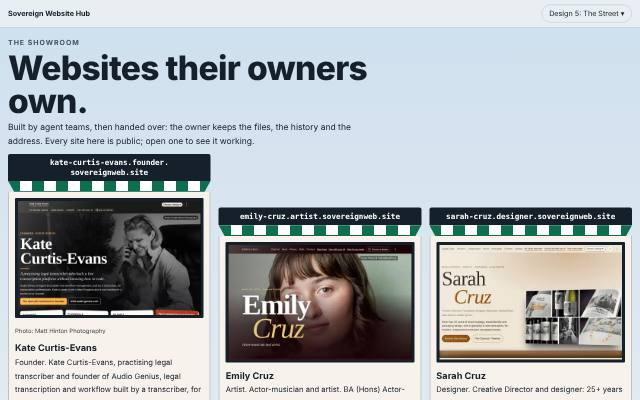
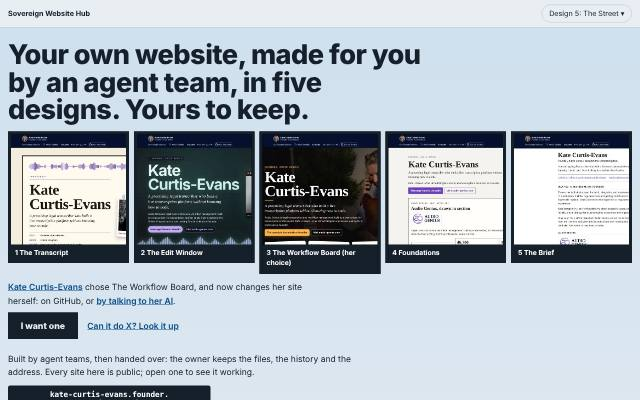
The Street opens with the case, and ends with an empty plot: Yours
design.b's round 9 item 3, so round 10 can compare The Street and The
Line on the same opening. The Street's first screen is now the case: the
sentence, Kate's five designs as framed windows with their names, the note
that she changes her site herself on GitHub or by talking to her AI, "I
want one" and "Can it do X?". Her shopfront and the street follow. At the
end of the street, an empty plot signed "Yours" leads to "I want one".

Agent: hub.b@SovereignWebsite.dinis
Claude-Session: https://claude.ai/code/session_01Kw9UwB7XboTsnbPPWaMr2d

diff --git a/site/street/index.html b/site/street/index.html
@@ -122,6 +122,24 @@ main>.get{margin:2.4rem 1rem 0}
 .sky .lede{margin:.3rem 0 0;max-width:44rem}
 @media(max-width:40rem){.sky .lede{font-size:.95rem}}
 .want-btn,.get .want-btn{background:var(--fg);border-color:var(--fg);color:var(--bg)}
+/* The case on the street's first screen */
+.case{padding:.4rem 0 .6rem}
+.case h1{font-size:clamp(1.8rem,5vw,3.4rem);line-height:1.02;letter-spacing:-.02em;font-weight:800;max-width:22ch;margin:0 0 1rem}
+.kate5{list-style:none;margin:0;padding:0;display:grid;gap:.6rem;grid-template-columns:repeat(5,minmax(0,1fr))}
+.kate5 a{display:block;text-decoration:none;color:var(--fg);border:6px solid var(--fg);background:#000}
+.kate5 img{height:220px;object-fit:cover;object-position:left top}
+.kate5 span{display:block;padding:.3rem .5rem;font-weight:700;font-size:.85rem;background:var(--sign);color:var(--sign-ink)}
+.kate5 a:hover span,.kate5 a:focus-visible span{text-decoration:underline}
+@media(max-width:40rem){.kate5{display:flex;overflow-x:auto;scroll-snap-type:x mandatory;padding-bottom:.4rem}.kate5 li{flex:0 0 70%;scroll-snap-align:start}.kate5 img{height:200px}}
+.case-note{margin:.8rem 0 0;max-width:44rem}.case-note a,.can{color:var(--accent);font-weight:600}
+.case-act{display:flex;flex-wrap:wrap;align-items:center;gap:.6rem 1.2rem;margin:.6rem 0 0}.case-act .want-btn{margin-top:0}
+.sky .lede{margin-top:1rem}
+/* The next plot: yours */
+.plot{display:block;max-width:26rem;text-decoration:none;color:var(--fg);margin-top:1.2rem}
+.plot .sign{background:var(--hi,#ffd60a);color:#111}
+.plot .front{border-style:dashed;min-height:12rem;align-content:space-between}
+.empty-lot{display:block;font-style:italic;color:var(--fg)}
+.plot:hover .door,.plot:focus-visible .door{background:var(--fg);color:var(--bg)}
 
 .family{--fam-fg:var(--family-fg,#454545);--fam-strong:var(--family-fg-strong,#111);font-size:.875rem;border-bottom:1px solid rgba(127,127,127,.25);background:rgba(127,127,127,.06)}
 @media (prefers-color-scheme:dark){.family{--fam-fg:var(--family-fg,#cfcfcf);--fam-strong:var(--family-fg-strong,#fff)}}
@@ -175,11 +193,16 @@ main>.get{margin:2.4rem 1rem 0}
 <header class="bar"><a class="brand" href="/">Sovereign Website Hub</a>
 <details class="chooser"><summary><span class="dw">Design </span><span class="cur">5</span><span class="dw">:</span> The Street</summary><nav class="opts" aria-label="Designs of this page"><a href="/"><img src="/shots/hub-design-1.jpg" alt="" width="640" height="400" loading="lazy"><span>1. The Line (home)</span></a><a href="/register/"><img src="/shots/hub-design-2.jpg" alt="" width="640" height="400" loading="lazy"><span>2. The Register</span></a><a href="/gallery/"><img src="/shots/hub-design-3.jpg" alt="" width="640" height="400" loading="lazy"><span>3. The Gallery</span></a><a href="/contact-sheet/"><img src="/shots/hub-design-4.jpg" alt="" width="640" height="400" loading="lazy"><span>4. Contact Sheet</span></a><a href="/street/" aria-current="page"><img src="/shots/hub-design-5.jpg" alt="" width="640" height="400" loading="lazy"><span>5. The Street</span></a><a href="/designs/"><span>All five, side by side</span></a></nav></details></header>
 <main id="main">
-<section class="sky" aria-labelledby="st-h"><div><p class="k">The showroom</p><h1 id="st-h">Websites their owners own.</h1>
+<div class="sky"><div><section class="case" aria-labelledby="case-h">
+<h1 id="case-h">Your own website, made for you by an agent team, in five designs. Yours to keep.</h1>
+<ul class="kate5" aria-label="Kate Curtis-Evans's site in its five designs"><li><a href="https://kate-curtis-evans.founder.sovereignweb.site/designs/1.html"><picture><source type="image/webp" srcset="/shots/kate-curtis-evans-design-1.webp"><img src="/shots/kate-curtis-evans-design-1.jpg" width="640" height="400" alt="Design 1 of Kate Curtis-Evans's site, The Transcript"></picture><span>1 The Transcript</span></a></li><li><a href="https://kate-curtis-evans.founder.sovereignweb.site/designs/2.html"><picture><source type="image/webp" srcset="/shots/kate-curtis-evans-design-2.webp"><img src="/shots/kate-curtis-evans-design-2.jpg" width="640" height="400" alt="Design 2 of Kate Curtis-Evans's site, The Edit Window"></picture><span>2 The Edit Window</span></a></li><li><a href="https://kate-curtis-evans.founder.sovereignweb.site/designs/3.html"><picture><source type="image/webp" srcset="/shots/kate-curtis-evans-design-3.webp"><img src="/shots/kate-curtis-evans-design-3.jpg" width="640" height="400" alt="Design 3 of Kate Curtis-Evans's site, The Workflow Board" loading="lazy"></picture><span>3 The Workflow Board (her choice)</span></a></li><li><a href="https://kate-curtis-evans.founder.sovereignweb.site/designs/4.html"><picture><source type="image/webp" srcset="/shots/kate-curtis-evans-design-4.webp"><img src="/shots/kate-curtis-evans-design-4.jpg" width="640" height="400" alt="Design 4 of Kate Curtis-Evans's site, Foundations" loading="lazy"></picture><span>4 Foundations</span></a></li><li><a href="https://kate-curtis-evans.founder.sovereignweb.site/designs/5.html"><picture><source type="image/webp" srcset="/shots/kate-curtis-evans-design-5.webp"><img src="/shots/kate-curtis-evans-design-5.jpg" width="640" height="400" alt="Design 5 of Kate Curtis-Evans's site, The Brief" loading="lazy"></picture><span>5 The Brief</span></a></li></ul>
+<p class="case-note"><a href="https://kate-curtis-evans.founder.sovereignweb.site/">Kate Curtis-Evans</a> chose The Workflow Board, and now changes her site herself: on GitHub, or <a href="https://kate-curtis-evans.founder.sovereignweb.site/agents/">by talking to her AI</a>.</p>
+<p class="case-act"><a class="want-btn" href="/start/#get-one">I want one</a> <a class="can" href="/features/">Can it do X? Look it up</a></p>
+</section>
 <p class="lede">Built by agent teams, then handed over: the owner keeps the files, the history and the address. Every site here is public; open one to see it working.</p>
 <div class="lead-row"><a class="shop lead" href="https://kate-curtis-evans.founder.sovereignweb.site/"><span class="sign"><span class="nw">kate-curtis-evans.</span><wbr><span class="nw">founder.</span><wbr><span class="nw">sovereignweb.site</span></span><span class="awning" aria-hidden="true"></span><span class="front"><span class="window"><picture><source media="(max-width:40rem)" type="image/webp" srcset="/shots/kate-curtis-evans-portrait.webp"><source media="(max-width:40rem)" srcset="/shots/kate-curtis-evans-portrait.jpg"><source type="image/webp" srcset="/shots/kate-curtis-evans-480.webp 480w, /shots/kate-curtis-evans-960.webp 960w" sizes="(min-width:52rem) 26rem, 100vw"><img src="/shots/kate-curtis-evans-640.jpg" srcset="/shots/kate-curtis-evans-640.jpg 640w, /shots/kate-curtis-evans.jpg 1280w" sizes="(min-width:52rem) 26rem, 100vw" width="1280" height="800" alt=""></picture></span><span class="credit">Photo: Matt Hinton Photography</span><span class="plate"><b>Kate Curtis-Evans</b><span>Founder. Kate Curtis-Evans, practising legal transcriber and founder of Audio Genius, legal transcription and workflow built by a transcriber, for transcription professionals.</span></span><span><span class="board">Handed over</span><span class="board alt">Five designs</span></span><span class="door">Walk in &rarr;</span></span></a><div class="wide-only"><a class="shop" href="https://emily-cruz.artist.sovereignweb.site/"><span class="sign"><span class="nw">emily-cruz.</span><wbr><span class="nw">artist.</span><wbr><span class="nw">sovereignweb.site</span></span><span class="awning" aria-hidden="true"></span><span class="front"><span class="window"><picture><source media="(max-width:40rem)" type="image/webp" srcset="/shots/emily-cruz-phone.webp"><source media="(max-width:40rem)" srcset="/shots/emily-cruz-phone.jpg"><source type="image/webp" srcset="/shots/emily-cruz-480.webp 480w, /shots/emily-cruz-960.webp 960w" sizes="(min-width:52rem) 26rem, 100vw"><img src="/shots/emily-cruz-640.jpg" srcset="/shots/emily-cruz-640.jpg 640w, /shots/emily-cruz.jpg 1280w" sizes="(min-width:52rem) 26rem, 100vw" width="1280" height="800" alt="" loading="lazy" decoding="async"></picture></span><span class="plate"><b>Emily Cruz</b><span>Artist. Actor-musician and artist. BA (Hons) Actor-Musician, Guildford School of Acting, 2026.</span></span><span><span class="board alt">Five designs</span></span><span class="door">Walk in &rarr;</span></span></a></div><div class="wide-only"><a class="shop" href="https://sarah-cruz.designer.sovereignweb.site/"><span class="sign"><span class="nw">sarah-cruz.</span><wbr><span class="nw">designer.</span><wbr><span class="nw">sovereignweb.site</span></span><span class="awning" aria-hidden="true"></span><span class="front"><span class="window"><picture><source media="(max-width:40rem)" type="image/webp" srcset="/shots/sarah-cruz-phone.webp"><source media="(max-width:40rem)" srcset="/shots/sarah-cruz-phone.jpg"><source type="image/webp" srcset="/shots/sarah-cruz-480.webp 480w, /shots/sarah-cruz-960.webp 960w" sizes="(min-width:52rem) 26rem, 100vw"><img src="/shots/sarah-cruz-640.jpg" srcset="/shots/sarah-cruz-640.jpg 640w, /shots/sarah-cruz.jpg 1280w" sizes="(min-width:52rem) 26rem, 100vw" width="1280" height="800" alt="" loading="lazy" decoding="async"></picture></span><span class="plate"><b>Sarah Cruz</b><span>Designer. Creative Director and designer: 25+ years of wine, spirits and retail packaging, five designs.</span></span><span><span class="board alt">Five designs</span></span><span class="door">Walk in &rarr;</span></span></a></div></div>
 <div class="about"><p class="want">Want one? It starts with one request. There is no request form yet: <a href="/start/#get-one">here is how to start</a>.</p>
-<nav aria-label="Streets"><ul class="streets"><li><a href="#st-s-people">People</a></li><li><a href="#st-s-startups">Startups</a></li><li><a href="#st-s-providers">Providers</a></li><li><a href="#st-s-businesses">Businesses</a></li><li><a href="#st-s-promptugal-news">PrompTugal.news</a></li><li><a href="#st-s-demos">Demos</a></li><li><a href="#st-s-tools">Tools</a></li></ul></nav></div></div></section>
+<nav aria-label="Streets"><ul class="streets"><li><a href="#st-s-people">People</a></li><li><a href="#st-s-startups">Startups</a></li><li><a href="#st-s-providers">Providers</a></li><li><a href="#st-s-businesses">Businesses</a></li><li><a href="#st-s-promptugal-news">PrompTugal.news</a></li><li><a href="#st-s-demos">Demos</a></li><li><a href="#st-s-tools">Tools</a></li></ul></nav></div></div></div>
 <section class="road" aria-label="On this street"><p>33 sites working, 11 of them people&#x27;s own; 1 handed over to its owner so far. Plus 1 not switched on yet.</p></section>
 <section class="street" id="st-s-people" aria-labelledby="st-h-s-people"><h2 id="st-h-s-people">People</h2><p class="sub">Personal sites for real people. Kate Curtis-Evans was the first to take hers over and edit it herself.</p>
 <div class="row"><div class=phone-only><a class="shop" href="https://emily-cruz.artist.sovereignweb.site/"><span class="sign"><span class="nw">emily-cruz.</span><wbr><span class="nw">artist.</span><wbr><span class="nw">sovereignweb.site</span></span><span class="awning" aria-hidden="true"></span><span class="front"><span class="window"><picture><source media="(max-width:40rem)" type="image/webp" srcset="/shots/emily-cruz-phone.webp"><source media="(max-width:40rem)" srcset="/shots/emily-cruz-phone.jpg"><source type="image/webp" srcset="/shots/emily-cruz-480.webp 480w, /shots/emily-cruz-960.webp 960w" sizes="(min-width:52rem) 26rem, 100vw"><img src="/shots/emily-cruz-640.jpg" srcset="/shots/emily-cruz-640.jpg 640w, /shots/emily-cruz.jpg 1280w" sizes="(min-width:52rem) 26rem, 100vw" width="1280" height="800" alt="" loading="lazy" decoding="async"></picture></span><span class="plate"><b>Emily Cruz</b><span>Artist. Actor-musician and artist. BA (Hons) Actor-Musician, Guildford School of Acting, 2026.</span></span><span><span class="board alt">Five designs</span></span><span class="door">Walk in &rarr;</span></span></a></div><div class=phone-only><a class="shop" href="https://sarah-cruz.designer.sovereignweb.site/"><span class="sign"><span class="nw">sarah-cruz.</span><wbr><span class="nw">designer.</span><wbr><span class="nw">sovereignweb.site</span></span><span class="awning" aria-hidden="true"></span><span class="front"><span class="window"><picture><source media="(max-width:40rem)" type="image/webp" srcset="/shots/sarah-cruz-phone.webp"><source media="(max-width:40rem)" srcset="/shots/sarah-cruz-phone.jpg"><source type="image/webp" srcset="/shots/sarah-cruz-480.webp 480w, /shots/sarah-cruz-960.webp 960w" sizes="(min-width:52rem) 26rem, 100vw"><img src="/shots/sarah-cruz-640.jpg" srcset="/shots/sarah-cruz-640.jpg 640w, /shots/sarah-cruz.jpg 1280w" sizes="(min-width:52rem) 26rem, 100vw" width="1280" height="800" alt="" loading="lazy" decoding="async"></picture></span><span class="plate"><b>Sarah Cruz</b><span>Designer. Creative Director and designer: 25+ years of wine, spirits and retail packaging, five designs.</span></span><span><span class="board alt">Five designs</span></span><span class="door">Walk in &rarr;</span></span></a></div><div class=wide-only><a class="shop" href="https://grace-farrell.artist.sovereignweb.site/"><span class="sign"><span class="nw">grace-farrell.</span><wbr><span class="nw">artist.</span><wbr><span class="nw">sovereignweb.site</span></span><span class="awning" aria-hidden="true"></span><span class="front"><span class="window"><picture><source media="(max-width:40rem)" type="image/webp" srcset="/shots/grace-farrell-phone.webp"><source media="(max-width:40rem)" srcset="/shots/grace-farrell-phone.jpg"><source type="image/webp" srcset="/shots/grace-farrell-480.webp 480w, /shots/grace-farrell-960.webp 960w" sizes="(min-width:52rem) 26rem, 100vw"><img src="/shots/grace-farrell-640.jpg" srcset="/shots/grace-farrell-640.jpg 640w, /shots/grace-farrell.jpg 1280w" sizes="(min-width:52rem) 26rem, 100vw" width="1280" height="800" alt="" loading="lazy" decoding="async"></picture></span><span class="plate"><b>Grace Farrell</b><span>Artist. Actor-singer and soprano: National Theatre, Les Misérables, BBC Champion, Diablo IV, and the Pride and Prejudice* (*sort of) tour.</span></span><span><span class="board alt">Five designs</span></span><span class="door">Walk in &rarr;</span></span></a></div><div class=wide-only><a class="shop" href="https://silvio-switha.agenticcells.site/"><span class="sign"><span class="nw">silvio-switha.</span><wbr><span class="nw">agenticcells.site</span></span><span class="awning" aria-hidden="true"></span><span class="front"><span class="window"><picture><source media="(max-width:40rem)" type="image/webp" srcset="/shots/silvio-switha-phone.webp"><source media="(max-width:40rem)" srcset="/shots/silvio-switha-phone.jpg"><source type="image/webp" srcset="/shots/silvio-switha-480.webp 480w, /shots/silvio-switha-960.webp 960w" sizes="(min-width:52rem) 26rem, 100vw"><img src="/shots/silvio-switha-640.jpg" srcset="/shots/silvio-switha-640.jpg 640w, /shots/silvio-switha.jpg 1280w" sizes="(min-width:52rem) 26rem, 100vw" width="1280" height="800" alt="" loading="lazy" decoding="async"></picture></span><span class="plate"><b>Silvio Switha</b><span>Musician. Silvio Switha, AI entrepreneur, musician and producer: a portfolio, made by the site factory.</span></span><span class="door">Walk in &rarr;</span></span></a></div><div class=wide-only><a class="shop" href="https://gabriel-dacruz.agenticcells.site/"><span class="sign"><span class="nw">gabriel-dacruz.</span><wbr><span class="nw">agenticcells.site</span></span><span class="awning" aria-hidden="true"></span><span class="front"><span class="window"><picture><source media="(max-width:40rem)" type="image/webp" srcset="/shots/gabriel-dacruz-phone.webp"><source media="(max-width:40rem)" srcset="/shots/gabriel-dacruz-phone.jpg"><source type="image/webp" srcset="/shots/gabriel-dacruz-480.webp 480w, /shots/gabriel-dacruz-960.webp 960w" sizes="(min-width:52rem) 26rem, 100vw"><img src="/shots/gabriel-dacruz-640.jpg" srcset="/shots/gabriel-dacruz-640.jpg 640w, /shots/gabriel-dacruz.jpg 1280w" sizes="(min-width:52rem) 26rem, 100vw" width="1280" height="800" alt="" loading="lazy" decoding="async"></picture></span><span class="plate"><b>Gabriel DaCruz</b><span>Composer. Personal site of Gabriel DaCruz, composer for concert, film and television, trained in Lisbon and London.</span></span><span><span class="board alt">Six designs</span></span><span class="door">Walk in &rarr;</span></span></a></div></div><div class="phone-only"><details class="more"><summary>Show all 11 in People</summary><div class="row"><a class="shop" href="https://grace-farrell.artist.sovereignweb.site/"><span class="sign"><span class="nw">grace-farrell.</span><wbr><span class="nw">artist.</span><wbr><span class="nw">sovereignweb.site</span></span><span class="awning" aria-hidden="true"></span><span class="front"><span class="window"><picture><source media="(max-width:40rem)" type="image/webp" srcset="/shots/grace-farrell-phone.webp"><source media="(max-width:40rem)" srcset="/shots/grace-farrell-phone.jpg"><source type="image/webp" srcset="/shots/grace-farrell-480.webp 480w, /shots/grace-farrell-960.webp 960w" sizes="(min-width:52rem) 26rem, 100vw"><img src="/shots/grace-farrell-640.jpg" srcset="/shots/grace-farrell-640.jpg 640w, /shots/grace-farrell.jpg 1280w" sizes="(min-width:52rem) 26rem, 100vw" width="1280" height="800" alt="" loading="lazy" decoding="async"></picture></span><span class="plate"><b>Grace Farrell</b><span>Artist. Actor-singer and soprano: National Theatre, Les Misérables, BBC Champion, Diablo IV, and the Pride and Prejudice* (*sort of) tour.</span></span><span><span class="board alt">Five designs</span></span><span class="door">Walk in &rarr;</span></span></a><a class="shop" href="https://silvio-switha.agenticcells.site/"><span class="sign"><span class="nw">silvio-switha.</span><wbr><span class="nw">agenticcells.site</span></span><span class="awning" aria-hidden="true"></span><span class="front"><span class="window"><picture><source media="(max-width:40rem)" type="image/webp" srcset="/shots/silvio-switha-phone.webp"><source media="(max-width:40rem)" srcset="/shots/silvio-switha-phone.jpg"><source type="image/webp" srcset="/shots/silvio-switha-480.webp 480w, /shots/silvio-switha-960.webp 960w" sizes="(min-width:52rem) 26rem, 100vw"><img src="/shots/silvio-switha-640.jpg" srcset="/shots/silvio-switha-640.jpg 640w, /shots/silvio-switha.jpg 1280w" sizes="(min-width:52rem) 26rem, 100vw" width="1280" height="800" alt="" loading="lazy" decoding="async"></picture></span><span class="plate"><b>Silvio Switha</b><span>Musician. Silvio Switha, AI entrepreneur, musician and producer: a portfolio, made by the site factory.</span></span><span class="door">Walk in &rarr;</span></span></a><a class="shop" href="https://gabriel-dacruz.agenticcells.site/"><span class="sign"><span class="nw">gabriel-dacruz.</span><wbr><span class="nw">agenticcells.site</span></span><span class="awning" aria-hidden="true"></span><span class="front"><span class="window"><picture><source media="(max-width:40rem)" type="image/webp" srcset="/shots/gabriel-dacruz-phone.webp"><source media="(max-width:40rem)" srcset="/shots/gabriel-dacruz-phone.jpg"><source type="image/webp" srcset="/shots/gabriel-dacruz-480.webp 480w, /shots/gabriel-dacruz-960.webp 960w" sizes="(min-width:52rem) 26rem, 100vw"><img src="/shots/gabriel-dacruz-640.jpg" srcset="/shots/gabriel-dacruz-640.jpg 640w, /shots/gabriel-dacruz.jpg 1280w" sizes="(min-width:52rem) 26rem, 100vw" width="1280" height="800" alt="" loading="lazy" decoding="async"></picture></span><span class="plate"><b>Gabriel DaCruz</b><span>Composer. Personal site of Gabriel DaCruz, composer for concert, film and television, trained in Lisbon and London.</span></span><span><span class="board alt">Six designs</span></span><span class="door">Walk in &rarr;</span></span></a><a class="shop" href="https://yiheng-wang.agenticcells.site/"><span class="sign"><span class="nw">yiheng-wang.</span><wbr><span class="nw">agenticcells.site</span></span><span class="awning" aria-hidden="true"></span><span class="front"><span class="window"><picture><source media="(max-width:40rem)" type="image/webp" srcset="/shots/yiheng-wang-phone.webp"><source media="(max-width:40rem)" srcset="/shots/yiheng-wang-phone.jpg"><source type="image/webp" srcset="/shots/yiheng-wang-480.webp 480w, /shots/yiheng-wang-960.webp 960w" sizes="(min-width:52rem) 26rem, 100vw"><img src="/shots/yiheng-wang-640.jpg" srcset="/shots/yiheng-wang-640.jpg 640w, /shots/yiheng-wang.jpg 1280w" sizes="(min-width:52rem) 26rem, 100vw" width="1280" height="800" alt="" loading="lazy" decoding="async"></picture></span><span class="plate"><b>Yiheng (Vicky) Wang</b><span>Operations. Yiheng Wang, project and operations manager: a personal site and presentation, made by the site factory.</span></span><span class="door">Walk in &rarr;</span></span></a><a class="shop" href="https://marc-noah.agenticcells.site/"><span class="sign"><span class="nw">marc-noah.</span><wbr><span class="nw">agenticcells.site</span></span><span class="awning" aria-hidden="true"></span><span class="front"><span class="window"><picture><source media="(max-width:40rem)" type="image/webp" srcset="/shots/marc-noah-phone.webp"><source media="(max-width:40rem)" srcset="/shots/marc-noah-phone.jpg"><source type="image/webp" srcset="/shots/marc-noah-480.webp 480w, /shots/marc-noah-960.webp 960w" sizes="(min-width:52rem) 26rem, 100vw"><img src="/shots/marc-noah-640.jpg" srcset="/shots/marc-noah-640.jpg 640w, /shots/marc-noah.jpg 1280w" sizes="(min-width:52rem) 26rem, 100vw" width="1280" height="800" alt="" loading="lazy" decoding="async"></picture></span><span class="plate"><b>Marc Noah</b><span>Songwriter. Marc Noah, Australian-Portuguese singer-songwriter living in the Algarve: the composer and his songs.</span></span><span><span class="board alt">Six designs</span></span><span class="door">Walk in &rarr;</span></span></a><a class="shop" href="https://indi-gupte.agenticcells.site/"><span class="sign"><span class="nw">indi-gupte.</span><wbr><span class="nw">agenticcells.site</span></span><span class="awning" aria-hidden="true"></span><span class="front"><span class="window"><picture><source media="(max-width:40rem)" type="image/webp" srcset="/shots/indi-gupte-phone.webp"><source media="(max-width:40rem)" srcset="/shots/indi-gupte-phone.jpg"><source type="image/webp" srcset="/shots/indi-gupte-480.webp 480w, /shots/indi-gupte-960.webp 960w" sizes="(min-width:52rem) 26rem, 100vw"><img src="/shots/indi-gupte-640.jpg" srcset="/shots/indi-gupte-640.jpg 640w, /shots/indi-gupte.jpg 1280w" sizes="(min-width:52rem) 26rem, 100vw" width="1280" height="800" alt="" loading="lazy" decoding="async"></picture></span><span class="plate"><b>Indi Gupte</b><span>Brand. Indi Gupte: brand, partnerships and research at RiskMandate, a team of AI agents behind him, and looking for work experience.</span></span><span><span class="board alt">Five designs</span></span><span class="door">Walk in &rarr;</span></span></a><a class="shop" href="https://mondweep-chakravorty.agenticcells.site/"><span class="sign"><span class="nw">mondweep-chakravorty.</span><wbr><span class="nw">agenticcells.site</span></span><span class="awning" aria-hidden="true"></span><span class="front"><span class="window"><picture><source media="(max-width:40rem)" type="image/webp" srcset="/shots/mondweep-chakravorty-phone.webp"><source media="(max-width:40rem)" srcset="/shots/mondweep-chakravorty-phone.jpg"><source type="image/webp" srcset="/shots/mondweep-chakravorty-480.webp 480w, /shots/mondweep-chakravorty-960.webp 960w" sizes="(min-width:52rem) 26rem, 100vw"><img src="/shots/mondweep-chakravorty-640.jpg" srcset="/shots/mondweep-chakravorty-640.jpg 640w, /shots/mondweep-chakravorty.jpg 1280w" sizes="(min-width:52rem) 26rem, 100vw" width="1280" height="800" alt="" loading="lazy" decoding="async"></picture></span><span class="plate"><b>Mondweep Chakravorty</b><span>AI leader. Mondweep Chakravorty: enterprise AI leader and agentic systems builder in London, co-founder of Agentics Foundation London, and his work with Dinis Cruz.</span></span><span><span class="board alt">Five designs</span></span><span class="door">Walk in &rarr;</span></span></a><a class="shop" href="https://jose-bota.agenticcells.site/"><span class="sign"><span class="nw">jose-bota.</span><wbr><span class="nw">agenticcells.site</span></span><span class="awning" aria-hidden="true"></span><span class="front"><span class="window"><picture><source media="(max-width:40rem)" type="image/webp" srcset="/shots/jose-bota-phone.webp"><source media="(max-width:40rem)" srcset="/shots/jose-bota-phone.jpg"><source type="image/webp" srcset="/shots/jose-bota-480.webp 480w, /shots/jose-bota-960.webp 960w" sizes="(min-width:52rem) 26rem, 100vw"><img src="/shots/jose-bota-640.jpg" srcset="/shots/jose-bota-640.jpg 640w, /shots/jose-bota.jpg 1280w" sizes="(min-width:52rem) 26rem, 100vw" width="1280" height="800" alt="" loading="lazy" decoding="async"></picture></span><span class="plate"><b>José Bota</b><span>Automation. José Bota, AI automation expert: a portfolio, made by the site factory.</span></span><span class="door">Walk in &rarr;</span></span></a></div></details></div><div class="wide-only"><details class="more"><summary>Show all 11 in People</summary><div class="row"><a class="shop" href="https://yiheng-wang.agenticcells.site/"><span class="sign"><span class="nw">yiheng-wang.</span><wbr><span class="nw">agenticcells.site</span></span><span class="awning" aria-hidden="true"></span><span class="front"><span class="window"><picture><source media="(max-width:40rem)" type="image/webp" srcset="/shots/yiheng-wang-phone.webp"><source media="(max-width:40rem)" srcset="/shots/yiheng-wang-phone.jpg"><source type="image/webp" srcset="/shots/yiheng-wang-480.webp 480w, /shots/yiheng-wang-960.webp 960w" sizes="(min-width:52rem) 26rem, 100vw"><img src="/shots/yiheng-wang-640.jpg" srcset="/shots/yiheng-wang-640.jpg 640w, /shots/yiheng-wang.jpg 1280w" sizes="(min-width:52rem) 26rem, 100vw" width="1280" height="800" alt="" loading="lazy" decoding="async"></picture></span><span class="plate"><b>Yiheng (Vicky) Wang</b><span>Operations. Yiheng Wang, project and operations manager: a personal site and presentation, made by the site factory.</span></span><span class="door">Walk in &rarr;</span></span></a><a class="shop" href="https://marc-noah.agenticcells.site/"><span class="sign"><span class="nw">marc-noah.</span><wbr><span class="nw">agenticcells.site</span></span><span class="awning" aria-hidden="true"></span><span class="front"><span class="window"><picture><source media="(max-width:40rem)" type="image/webp" srcset="/shots/marc-noah-phone.webp"><source media="(max-width:40rem)" srcset="/shots/marc-noah-phone.jpg"><source type="image/webp" srcset="/shots/marc-noah-480.webp 480w, /shots/marc-noah-960.webp 960w" sizes="(min-width:52rem) 26rem, 100vw"><img src="/shots/marc-noah-640.jpg" srcset="/shots/marc-noah-640.jpg 640w, /shots/marc-noah.jpg 1280w" sizes="(min-width:52rem) 26rem, 100vw" width="1280" height="800" alt="" loading="lazy" decoding="async"></picture></span><span class="plate"><b>Marc Noah</b><span>Songwriter. Marc Noah, Australian-Portuguese singer-songwriter living in the Algarve: the composer and his songs.</span></span><span><span class="board alt">Six designs</span></span><span class="door">Walk in &rarr;</span></span></a><a class="shop" href="https://indi-gupte.agenticcells.site/"><span class="sign"><span class="nw">indi-gupte.</span><wbr><span class="nw">agenticcells.site</span></span><span class="awning" aria-hidden="true"></span><span class="front"><span class="window"><picture><source media="(max-width:40rem)" type="image/webp" srcset="/shots/indi-gupte-phone.webp"><source media="(max-width:40rem)" srcset="/shots/indi-gupte-phone.jpg"><source type="image/webp" srcset="/shots/indi-gupte-480.webp 480w, /shots/indi-gupte-960.webp 960w" sizes="(min-width:52rem) 26rem, 100vw"><img src="/shots/indi-gupte-640.jpg" srcset="/shots/indi-gupte-640.jpg 640w, /shots/indi-gupte.jpg 1280w" sizes="(min-width:52rem) 26rem, 100vw" width="1280" height="800" alt="" loading="lazy" decoding="async"></picture></span><span class="plate"><b>Indi Gupte</b><span>Brand. Indi Gupte: brand, partnerships and research at RiskMandate, a team of AI agents behind him, and looking for work experience.</span></span><span><span class="board alt">Five designs</span></span><span class="door">Walk in &rarr;</span></span></a><a class="shop" href="https://mondweep-chakravorty.agenticcells.site/"><span class="sign"><span class="nw">mondweep-chakravorty.</span><wbr><span class="nw">agenticcells.site</span></span><span class="awning" aria-hidden="true"></span><span class="front"><span class="window"><picture><source media="(max-width:40rem)" type="image/webp" srcset="/shots/mondweep-chakravorty-phone.webp"><source media="(max-width:40rem)" srcset="/shots/mondweep-chakravorty-phone.jpg"><source type="image/webp" srcset="/shots/mondweep-chakravorty-480.webp 480w, /shots/mondweep-chakravorty-960.webp 960w" sizes="(min-width:52rem) 26rem, 100vw"><img src="/shots/mondweep-chakravorty-640.jpg" srcset="/shots/mondweep-chakravorty-640.jpg 640w, /shots/mondweep-chakravorty.jpg 1280w" sizes="(min-width:52rem) 26rem, 100vw" width="1280" height="800" alt="" loading="lazy" decoding="async"></picture></span><span class="plate"><b>Mondweep Chakravorty</b><span>AI leader. Mondweep Chakravorty: enterprise AI leader and agentic systems builder in London, co-founder of Agentics Foundation London, and his work with Dinis Cruz.</span></span><span><span class="board alt">Five designs</span></span><span class="door">Walk in &rarr;</span></span></a><a class="shop" href="https://jose-bota.agenticcells.site/"><span class="sign"><span class="nw">jose-bota.</span><wbr><span class="nw">agenticcells.site</span></span><span class="awning" aria-hidden="true"></span><span class="front"><span class="window"><picture><source media="(max-width:40rem)" type="image/webp" srcset="/shots/jose-bota-phone.webp"><source media="(max-width:40rem)" srcset="/shots/jose-bota-phone.jpg"><source type="image/webp" srcset="/shots/jose-bota-480.webp 480w, /shots/jose-bota-960.webp 960w" sizes="(min-width:52rem) 26rem, 100vw"><img src="/shots/jose-bota-640.jpg" srcset="/shots/jose-bota-640.jpg 640w, /shots/jose-bota.jpg 1280w" sizes="(min-width:52rem) 26rem, 100vw" width="1280" height="800" alt="" loading="lazy" decoding="async"></picture></span><span class="plate"><b>José Bota</b><span>Automation. José Bota, AI automation expert: a portfolio, made by the site factory.</span></span><span class="door">Walk in &rarr;</span></span></a></div></details></div></section>
@@ -202,6 +225,8 @@ main>.get{margin:2.4rem 1rem 0}
 <section class="street" id="st-s-tools" aria-labelledby="st-h-s-tools"><h2 id="st-h-s-tools">Tools</h2><p class="sub">Small working tools.</p>
 <div class="row"><a class="shop" href="https://whois.tool.sovereignweb.site/"><span class="sign"><span class="nw">whois.</span><wbr><span class="nw">tool.</span><wbr><span class="nw">sovereignweb.site</span></span><span class="awning" aria-hidden="true"></span><span class="front"><span class="window"><picture><source media="(max-width:40rem)" type="image/webp" srcset="/shots/whois-phone.webp"><source media="(max-width:40rem)" srcset="/shots/whois-phone.jpg"><source type="image/webp" srcset="/shots/whois-480.webp 480w, /shots/whois-960.webp 960w" sizes="(min-width:52rem) 26rem, 100vw"><img src="/shots/whois-640.jpg" srcset="/shots/whois-640.jpg 640w, /shots/whois.jpg 1280w" sizes="(min-width:52rem) 26rem, 100vw" width="1280" height="800" alt="" loading="lazy" decoding="async"></picture></span><span class="plate"><b>Whois: who holds a domain or IP address</b><span>Tool. Who holds a domain or an IP address, from the registries&#x27; own RDAP records. No ads, no tracking.</span></span><span class="door">Walk in &rarr;</span></span></a><a class="shop shut" href="https://google-maps.sovereignwebsite.site/"><span class="sign"><span class="nw">google-maps.</span><wbr><span class="nw">sovereignwebsite.site</span></span><span class="awning" aria-hidden="true"></span><span class="front"><span class="window"><picture><source media="(max-width:40rem)" type="image/webp" srcset="/shots/google-maps-phone.webp"><source media="(max-width:40rem)" srcset="/shots/google-maps-phone.jpg"><source type="image/webp" srcset="/shots/google-maps-480.webp 480w, /shots/google-maps-960.webp 960w" sizes="(min-width:52rem) 26rem, 100vw"><img src="/shots/google-maps-640.jpg" srcset="/shots/google-maps-640.jpg 640w, /shots/google-maps.jpg 1280w" sizes="(min-width:52rem) 26rem, 100vw" width="1280" height="800" alt="" loading="lazy" decoding="async"></picture></span><span class="plate"><b>Directions, and the cameras on the way</b><span>Demo. Not switched on yet: waiting for the owner&#x27;s Maps key.</span></span><span class="door">Not switched on yet</span></span></a></div></section>
 <div class="kerb" aria-hidden="true"></div>
+<section class="street plot-row" aria-labelledby="plot-h"><h2 id="plot-h">The next plot</h2>
+<a class="plot" href="/start/#get-one"><span class="sign">Yours</span><span class="awning" aria-hidden="true"></span><span class="front"><span class="empty-lot">An empty plot on the street, waiting for your site.</span><span class="door">I want one &rarr;</span></span></a></section>
 <p class="how">Every shop's details come from the hub's <a href="/sites.json">sites.json</a>; the windows are screenshots of the live sites. <a href="https://pipeline-demo.demo.sovereignweb.site/">See it run: the pipeline demo</a>.</p>
 <section class="get" aria-labelledby="get-h"><h2 id="get-h">Get one</h2><p>Every site here began with one request and was handed over to its owner. <a href="/start/#get-one">Start here: how to get a site like these</a>.</p><p><a class="want-btn" href="/start/#get-one">I want one</a></p></section>
 </main>

diff --git a/tools/showroom/street.css b/tools/showroom/street.css
@@ -64,3 +64,21 @@ main>.get{margin:2.4rem 1rem 0}
 .sky .lede{margin:.3rem 0 0;max-width:44rem}
 @media(max-width:40rem){.sky .lede{font-size:.95rem}}
 .want-btn,.get .want-btn{background:var(--fg);border-color:var(--fg);color:var(--bg)}
+/* The case on the street's first screen */
+.case{padding:.4rem 0 .6rem}
+.case h1{font-size:clamp(1.8rem,5vw,3.4rem);line-height:1.02;letter-spacing:-.02em;font-weight:800;max-width:22ch;margin:0 0 1rem}
+.kate5{list-style:none;margin:0;padding:0;display:grid;gap:.6rem;grid-template-columns:repeat(5,minmax(0,1fr))}
+.kate5 a{display:block;text-decoration:none;color:var(--fg);border:6px solid var(--fg);background:#000}
+.kate5 img{height:220px;object-fit:cover;object-position:left top}
+.kate5 span{display:block;padding:.3rem .5rem;font-weight:700;font-size:.85rem;background:var(--sign);color:var(--sign-ink)}
+.kate5 a:hover span,.kate5 a:focus-visible span{text-decoration:underline}
+@media(max-width:40rem){.kate5{display:flex;overflow-x:auto;scroll-snap-type:x mandatory;padding-bottom:.4rem}.kate5 li{flex:0 0 70%;scroll-snap-align:start}.kate5 img{height:200px}}
+.case-note{margin:.8rem 0 0;max-width:44rem}.case-note a,.can{color:var(--accent);font-weight:600}
+.case-act{display:flex;flex-wrap:wrap;align-items:center;gap:.6rem 1.2rem;margin:.6rem 0 0}.case-act .want-btn{margin-top:0}
+.sky .lede{margin-top:1rem}
+/* The next plot: yours */
+.plot{display:block;max-width:26rem;text-decoration:none;color:var(--fg);margin-top:1.2rem}
+.plot .sign{background:var(--hi,#ffd60a);color:#111}
+.plot .front{border-style:dashed;min-height:12rem;align-content:space-between}
+.empty-lot{display:block;font-style:italic;color:var(--fg)}
+.plot:hover .door,.plot:focus-visible .door{background:var(--fg);color:var(--bg)}

diff --git a/tools/build-showroom.py b/tools/build-showroom.py
@@ -355,6 +355,28 @@ page('contact-sheet/', 'Contact Sheet', css('contact-sheet'), f'''<main id="main
 </main>''', cur=4, note=design_note(4))
 
 
+# The case, on the home page's first screen: one sentence, one real site in its five designs, one action.
+KATE = 'https://kate-curtis-evans.founder.sovereignweb.site/'
+
+
+KATE_DESIGNS = ['The Transcript', 'The Edit Window', 'The Workflow Board', 'Foundations', 'The Brief']  # titles of her designs/1 to 5
+KATE_CHOICE = 3  # her home page
+
+
+def case():
+    items = []
+    for d in range(1, 6):
+        lazy = '' if d < 3 else ' loading="lazy"'
+        items.append(f'<li><a href="{KATE}designs/{d}.html"><picture><source type="image/webp" srcset="/shots/kate-curtis-evans-design-{d}.webp">'
+                     f'<img src="/shots/kate-curtis-evans-design-{d}.jpg" width="640" height="400" alt="Design {d} of Kate Curtis-Evans\'s site, {KATE_DESIGNS[d - 1]}"{lazy}></picture>'
+                     f'<span>{d} {KATE_DESIGNS[d - 1]}{" (her choice)" if d == KATE_CHOICE else ""}</span></a></li>')
+    return ('<section class="case" aria-labelledby="case-h">\n'
+            '<h1 id="case-h">Your own website, made for you by an agent team, in five designs. Yours to keep.</h1>\n'
+            f'<ul class="kate5" aria-label="Kate Curtis-Evans\'s site in its five designs">{"".join(items)}</ul>\n'
+            f'<p class="case-note"><a href="{KATE}">Kate Curtis-Evans</a> chose The Workflow Board, and now changes her site herself: on GitHub, or <a href="{KATE}agents/">by talking to her AI</a>.</p>\n'
+            '<p class="case-act"><a class="want-btn" href="/start/#get-one">I want one</a> <a class="can" href="/features/">Can it do X? Look it up</a></p>\n</section>')
+
+
 # ---- 4 The Street ----
 def shop(s, is_lead=False):
     boards = (['<span class="board">Handed over</span>'] if s.get('handed_over') else []) + [f'<span class="board alt">{e(x)}</span>' for x in s.get('chips', [])]
@@ -367,15 +389,17 @@ def shop(s, is_lead=False):
 
 
 page('street/', 'The Street', css('street'), f'''<main id="main">
-<section class="sky" aria-labelledby="st-h"><div><p class="k">The showroom</p><h1 id="st-h">Websites their owners own.</h1>
+<div class="sky"><div>{case()}
 <p class="lede">{e(ABOUT)}</p>
 <div class="lead-row">{shop(lead, True)}{''.join(f'<div class="wide-only">{shop(s)}</div>' for s in rest('People')[:2])}</div>
 <div class="about"><p class="want">{WANT}</p>
-<nav aria-label="Streets"><ul class="streets">{''.join(f'<li><a href="#st-{sid(n)}">{e(n)}</a></li>' for n, _ in shown)}</ul></nav></div></div></section>
+<nav aria-label="Streets"><ul class="streets">{''.join(f'<li><a href="#st-{sid(n)}">{e(n)}</a></li>' for n, _ in shown)}</ul></nav></div></div></div>
 <section class="road" aria-label="On this street"><p>{e(COUNTS)}</p></section>
 {chr(10).join(f"""<section class="street" id="st-{sid(n)}" aria-labelledby="st-h-{sid(n)}"><h2 id="st-h-{sid(n)}">{e(n)}</h2><p class="sub">{e(intro)}</p>
 {street_people() if n == 'People' else fold(n, shop, 'row', n)}</section>
 <div class="kerb" aria-hidden="true"></div>""" for n, intro in shown)}
+<section class="street plot-row" aria-labelledby="plot-h"><h2 id="plot-h">The next plot</h2>
+<a class="plot" href="/start/#get-one"><span class="sign">Yours</span><span class="awning" aria-hidden="true"></span><span class="front"><span class="empty-lot">An empty plot on the street, waiting for your site.</span><span class="door">I want one &rarr;</span></span></a></section>
 <p class="how">Every shop's details come from the hub's <a href="/sites.json">sites.json</a>; the windows are screenshots of the live sites.{DEMO_LINK}</p>
 {GET}
 </main>''', cur=5, note=design_note(5))
@@ -411,28 +435,6 @@ def station(i, title, here, note):
                   f'<ul class="here">{"".join(li[2:])}</ul></details></li>')
     return (f'<li class="st{" end" if i == 3 else ""}{" get-st" if i == 4 else ""}"><h2>{e(title)}</h2>' + (f'<p class="empty">{note if i in (0, 4) else e(note)}</p>' if note else '')
             + (f'<ul class="here">{cards}</ul>' if cards else '') + '</li>')
-
-
-# The case, on the home page's first screen: one sentence, one real site in its five designs, one action.
-KATE = 'https://kate-curtis-evans.founder.sovereignweb.site/'
-
-
-KATE_DESIGNS = ['The Transcript', 'The Edit Window', 'The Workflow Board', 'Foundations', 'The Brief']  # titles of her designs/1 to 5
-KATE_CHOICE = 3  # her home page
-
-
-def case():
-    items = []
-    for d in range(1, 6):
-        lazy = '' if d < 3 else ' loading="lazy"'
-        items.append(f'<li><a href="{KATE}designs/{d}.html"><picture><source type="image/webp" srcset="/shots/kate-curtis-evans-design-{d}.webp">'
-                     f'<img src="/shots/kate-curtis-evans-design-{d}.jpg" width="640" height="400" alt="Design {d} of Kate Curtis-Evans\'s site, {KATE_DESIGNS[d - 1]}"{lazy}></picture>'
-                     f'<span>{d} {KATE_DESIGNS[d - 1]}{" (her choice)" if d == KATE_CHOICE else ""}</span></a></li>')
-    return ('<section class="case" aria-labelledby="case-h">\n'
-            '<h1 id="case-h">Your own website, made for you by an agent team, in five designs. Yours to keep.</h1>\n'
-            f'<ul class="kate5" aria-label="Kate Curtis-Evans\'s site in its five designs">{"".join(items)}</ul>\n'
-            f'<p class="case-note"><a href="{KATE}">Kate Curtis-Evans</a> chose The Workflow Board, and now changes her site herself: on GitHub, or <a href="{KATE}agents/">by talking to her AI</a>.</p>\n'
-            '<p class="case-act"><a class="want-btn" href="/start/#get-one">I want one</a> <a class="can" href="/features/">Can it do X? Look it up</a></p>\n</section>')
 
 
 # What you get: five items, each with a live example (design.b's hub-sells brief, item 2).
